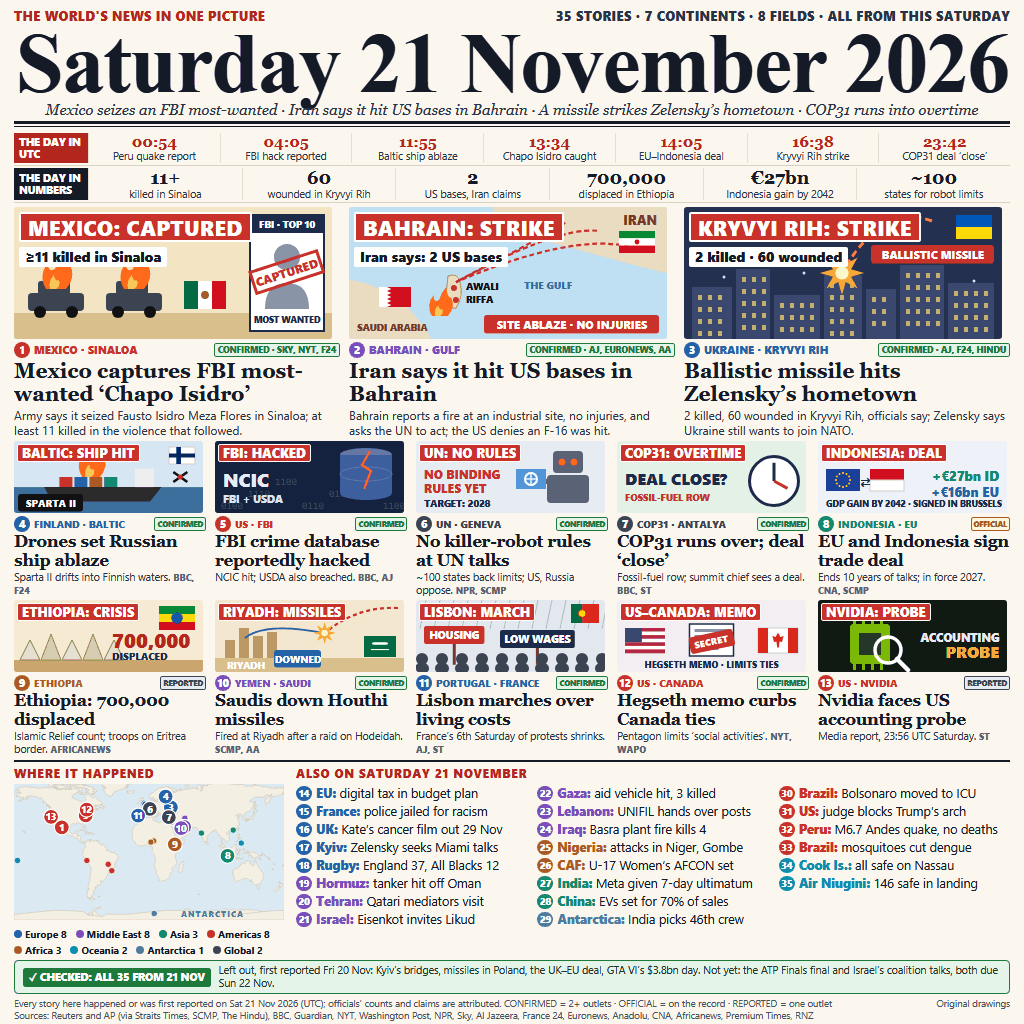
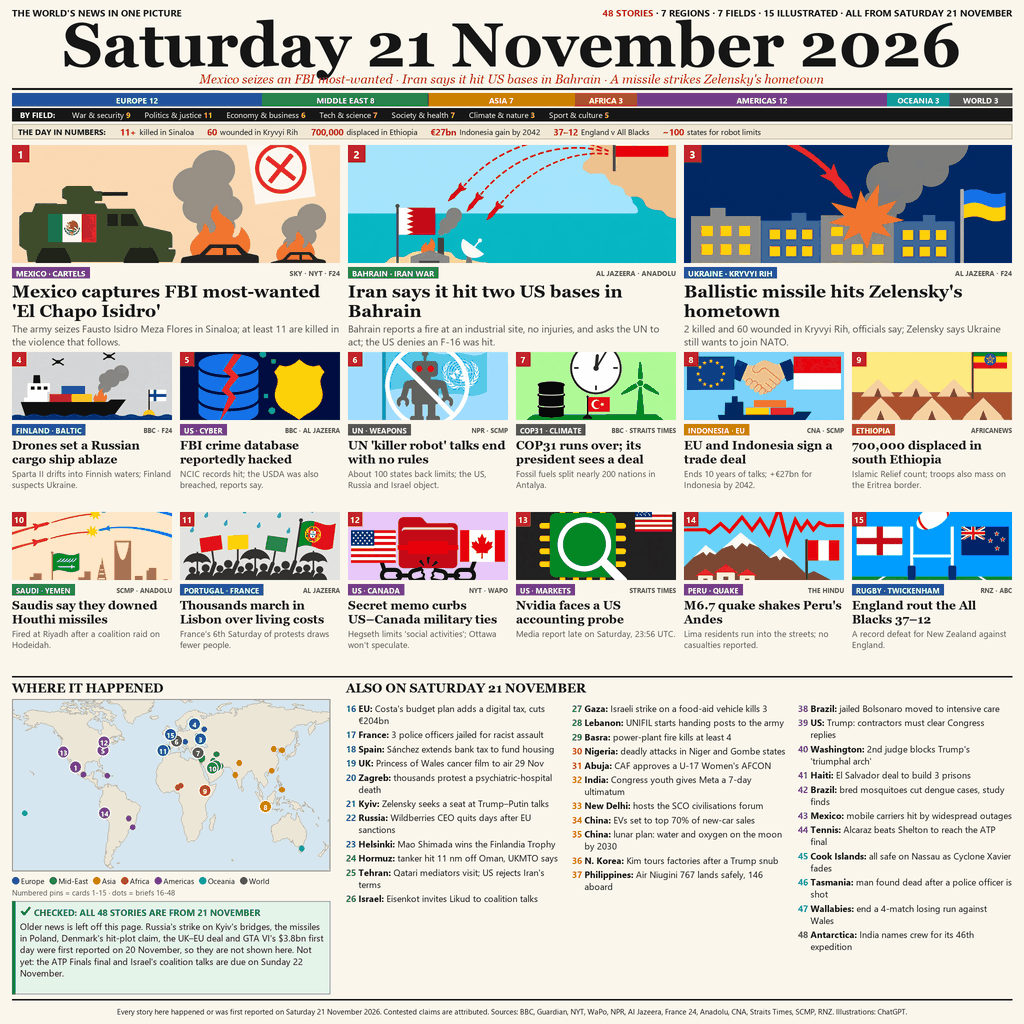
v5: the 1120 make_front recipe - 48 stories, 15 flat ChatGPT pictograms, region and field bars

diff --git a/main.py b/main.py
@@ -1,8 +1,8 @@
 """news-image-20261121 entry: the world on Saturday 21 November 2026.
 
-entry.png is the finished 1024x1024 front page (35 stories from all 7
-continents, 13 illustrated cards with a place banner each, a map of where it
-happened and 22 numbered briefs in three columns). The sandbox runs
+entry.png is the finished 1024x1024 front page (48 stories from 7 regions,
+15 of them on cards with flat ChatGPT pictograms, a map of where it happened
+and 33 numbered briefs in three columns). The sandbox runs
 this file with no network; it checks the picture, then writes the very same
 bytes on every run.
 """

diff --git a/README.md b/README.md
@@ -4,7 +4,7 @@
 [![rank](https://make.fun/badge/news-image-20261121/0xfani/news-image-1121/rank.svg)](https://make.fun/bounty/news-image-20261121/leaderboard?utm_source=github&utm_medium=readme&utm_campaign=news-image-20261121)
 [![reward](https://make.fun/badge/news-image-20261121/0xfani/news-image-1121/reward.svg)](https://make.fun/bounty/news-image-20261121?utm_source=github&utm_medium=readme&utm_campaign=news-image-20261121)
 
-One picture of Saturday 21 November 2026: the day's world news on a single 1024×1024 front page. A big dated masthead with a one-line dek naming the leads, "the day in UTC" timeline, the day in numbers, 13 illustrated story cards (3 leads + 10), each picture topped by a red "PLACE: WORD" banner and drawn to carry the facts (casualty counts, places, flags, figures), a source badge on every card, a world map with numbered pins (Antarctica included), 22 numbered "Also on" briefs in three columns (35 stories in all, 7 continents, 8 fields), and a green date-check box naming both what was left out as Friday's news and what is not yet (Sunday's ATP Finals final and Israel's coalition talks). Contested claims are attributed ("Iran says", "reportedly").
+One picture of Saturday 21 November 2026: the day's world news on a single 1024×1024 front page. A big dated masthead with a red dek naming the leads, region and field bars, the day in numbers, 15 illustrated story cards (3 leads + 12) with minimal flat pictograms (ChatGPT) and per-card source labels, a world map with numbered pins, 33 numbered "Also on" briefs in three columns (48 stories in all, 7 regions, 7 fields), and a green date-check box naming both what was left out as Friday's news and what is not yet (Sunday's ATP Finals final and Israel's coalition talks). Contested claims are attributed ("Iran says", "reportedly").
 
 Leads: Mexico's capture of FBI most-wanted "El Chapo Isidro" (at least 11 killed in Sinaloa), Iran's claimed missile-and-drone strike on US bases in Bahrain (Bahrain reports a fire at an industrial site), and a ballistic missile on Zelensky's hometown Kryvyi Rih (2 killed, 60 wounded).
 
